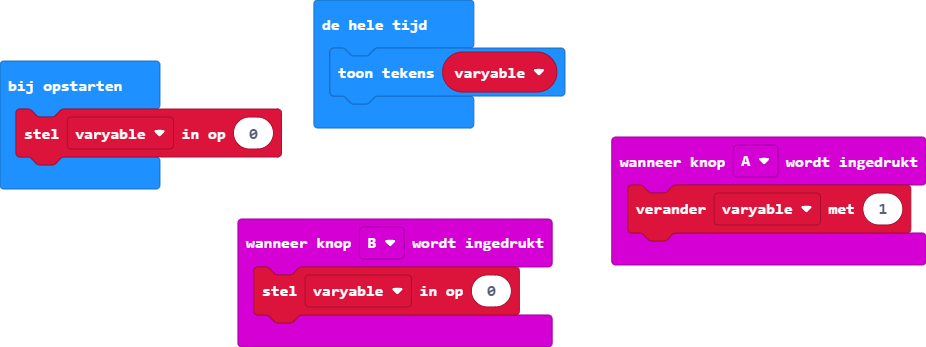
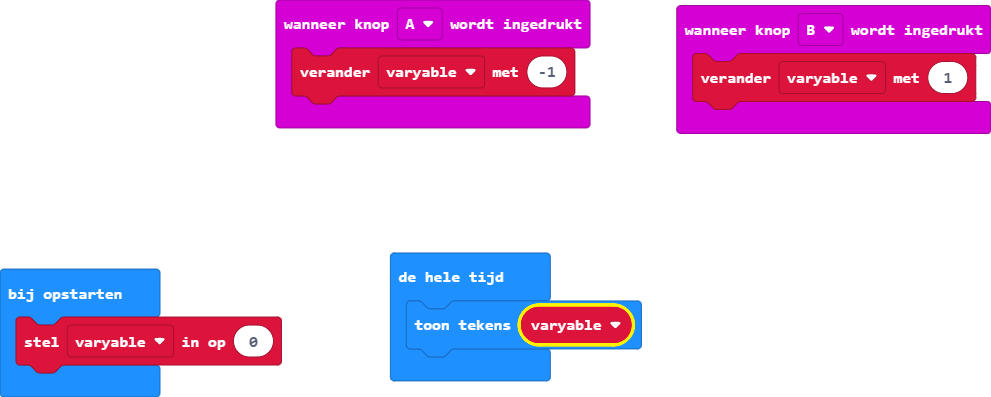
jkl

diff --git a/main.ts b/main.ts
@@ -1,11 +1,10 @@
 input.onButtonPressed(Button.A, function () {
-    varyable += 1
+    varyable += -1
 })
 input.onButtonPressed(Button.B, function () {
-    varyable = 0
+    varyable += 1
 })
 let varyable = 0
-varyable = 0
 basic.forever(function () {
     basic.showString("" + (varyable))
 })
